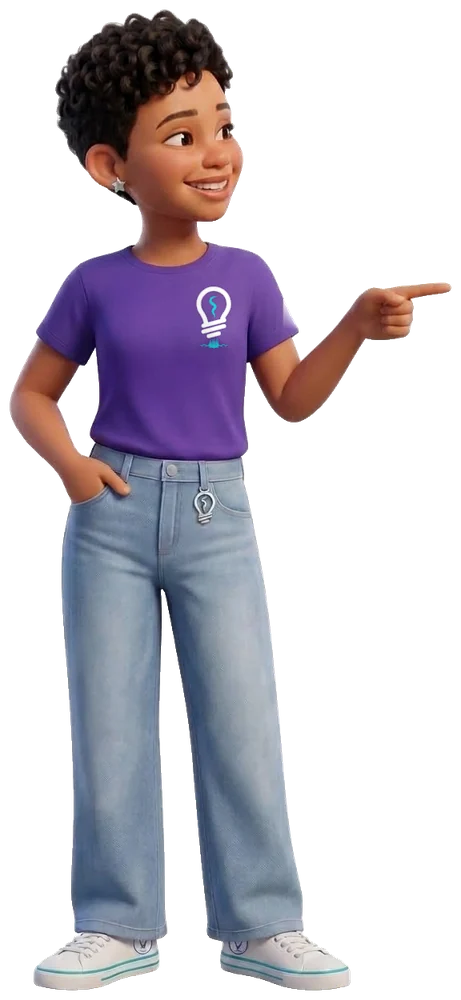
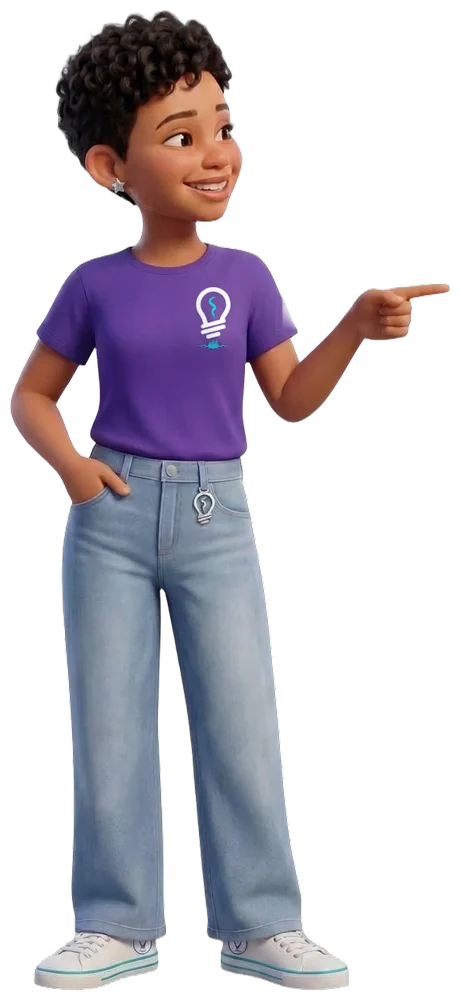
fix(site): halo branco na silhueta da Maria Clara
Mesmo defeito do Lumen: o render veio sobre branco e a borda guardava a
mistura com o fundo, que reaparece como contorno claro. Artes regeradas
por DOCUMENTACAO/MASCOTE/retoque/mc_web.py (alpha suave + descontaminação
de borda + redimensionamento premultiplicado) e medidas atualizadas.

diff --git a/coming-soon/index.html b/coming-soon/index.html
@@ -29,9 +29,11 @@
   #contato desta página.
 
   Maria Clara (mascote, bíblia em DOCUMENTACAO/MASCOTE/MARIA-CLARA.md):
-  entra como colega de time, nunca no lugar do logo. Artes finais =
-  "MARIA CLARA E CLARINHA/revisadas/". Aqui: boas-vindas no hero, apontando
-  para o formulário e positivo no bloco de contato. WebP + PNG de fallback.
+  entra como colega de time, nunca no lugar do logo. Aqui: boas-vindas no
+  hero, apontando para o formulário e positivo no bloco de contato. WebP +
+  PNG de fallback. As artes saem de `DOCUMENTACAO/MASCOTE/retoque/mc_web.py`
+  — ele imprime a medida de cada pose, que precisa ser copiada para o
+  `width`/`height` daqui, senão a página salta quando a imagem carrega.
 -->
 <meta name="description" content="LampUP IT: qualidade de software com IA, ao alcance de quem faz software. O Lumen chega em 14 de setembro de 2026 e você já pode conhecê-lo: agentes de IA que geram requisitos, cenários e casos de teste, executam os testes com evidência e uma gestão de testes completa.">
 <meta name="robots" content="index, follow">
@@ -472,7 +474,7 @@ footer.bottom a:hover { color:var(--purple); }
     <figure class="hero-figure">
       <picture>
         <source srcset="/maria-clara-boas-vindas.webp" type="image/webp">
-        <img src="/maria-clara-boas-vindas.png" alt="Maria Clara, do time LampUP, acenando" width="397" height="1000" fetchpriority="high">
+        <img src="/maria-clara-boas-vindas.png" alt="Maria Clara, do time LampUP, acenando" width="398" height="1000" fetchpriority="high">
       </picture>
       <figcaption><strong>Maria Clara</strong>, do time LampUP</figcaption>
     </figure>
@@ -630,7 +632,7 @@ footer.bottom a:hover { color:var(--purple); }
     <figure class="avise-figure" aria-hidden="true">
       <picture>
         <source srcset="/maria-clara-apontando.webp" type="image/webp">
-        <img src="/maria-clara-apontando.png" alt="" width="461" height="1000" loading="lazy">
+        <img src="/maria-clara-apontando.png" alt="" width="460" height="1000" loading="lazy">
       </picture>
     </figure>
     <div class="form-card" id="form-card">
